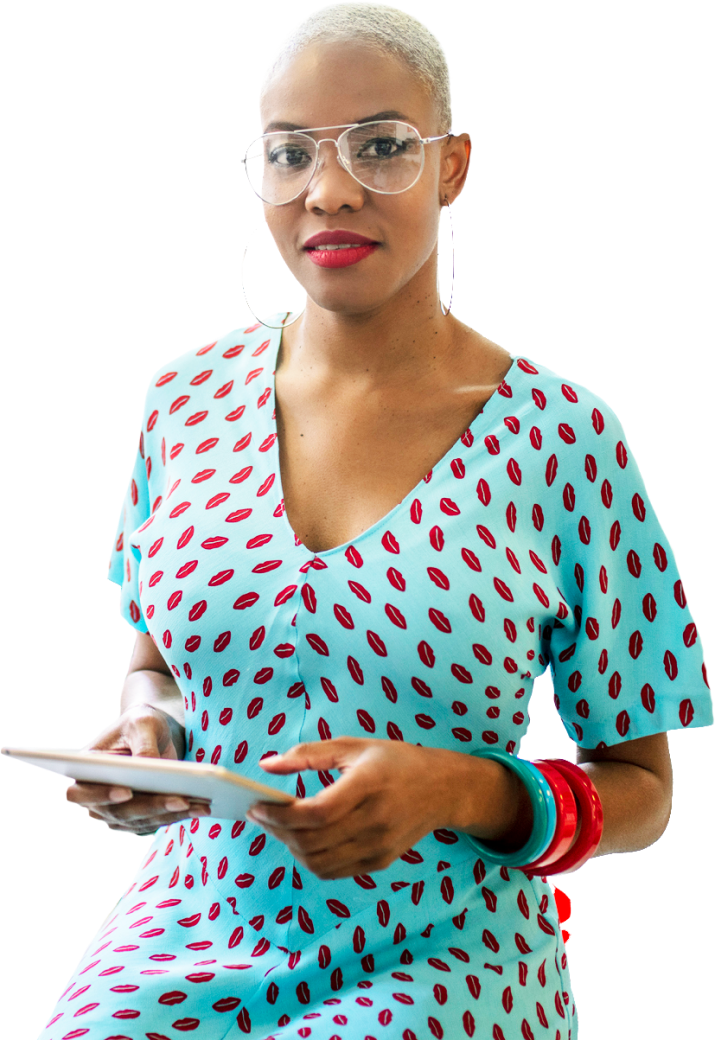
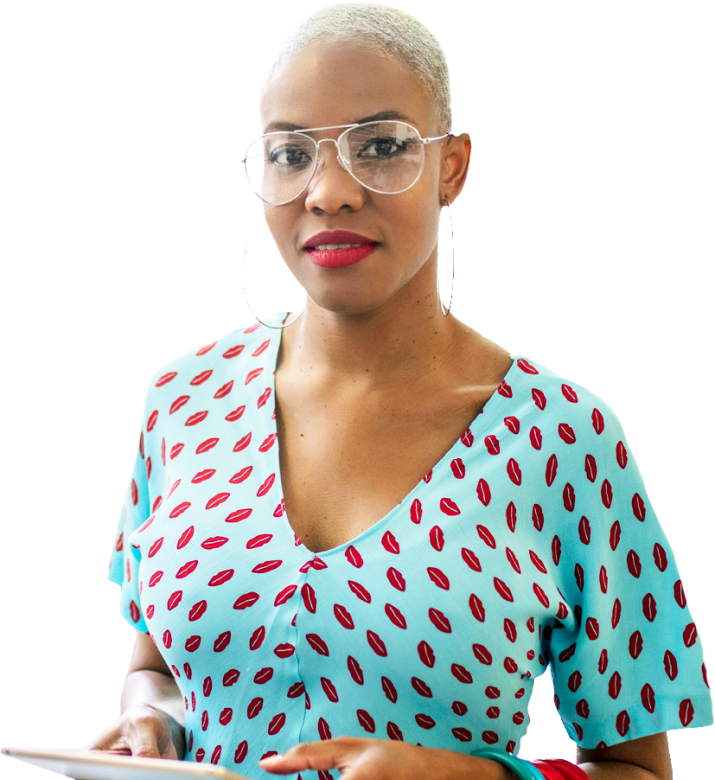
.

diff --git a/pages/index.tsx b/pages/index.tsx
@@ -20,9 +20,9 @@ export default function Home() {
       </header>
       <main>
         {/* hero */}
-        <section className="h-full bg-gradient-to-r from-[#5A4797] to-[#2364A4]">
-          <div className="flex items-stretch max-w-screen-xl mx-auto pt-12 sm:pt-20 px-3 sm:px-0">
-            <div className="flex-1 pb-56">
+        <section className="bg-gradient-to-r from-[#5A4797] to-[#2364A4]">
+          <div className="grid grid-cols-3 sm:grid-cols-2 max-w-screen-xl mx-auto pt-10 sm:pt-20">
+            <div className="col-span-3 sm:col-start-1 sm:col-span-1 px-3">
               <h1 className="text-7xl sm:text-9xl leading-none text-white font-strawberry capitalize">
                 Build your team.
               </h1>
@@ -35,36 +35,36 @@ export default function Home() {
                 you find exceptional talent to augment your team. We love this
                 work and we’re ready to help.
               </p>
-              <div>
-                <div className="text-lg sm:text-2xl max-w-[70%] sm:max-w-[80%] mt-4 sm:mt-12 font-bold italic text-[#3CBFAE]">
-                  “I have worked with SweetRush and Rodrigo for many years, and
-                  I trust them and count on them, and they never let me down.”
-                </div>
-                <div className="flex flex-col sm:flex-row sm:items-end max-w-[75%] sm:max-w-full space-y-2 sm:space-y-0 sm:space-x-4 mt-6 text-white">
-                  <p>
-                    <b>—Douglas E. Miller, </b>
-                    Director, Learning and Awareness
-                  </p>
-                  <div>
-                    <Image
-                      src="/kaiser-logo.png"
-                      width={125}
-                      height={15}
-                      objectFit="contain"
-                      objectPosition="bottom"
-                      alt="Kaiser Permanente logo"
-                    />
-                  </div>
+            </div>
+            <div className="col-start-1 row-start-2 row-end-2 z-10 col-span-2 sm:col-span-1 pb-28 sm:pb-56 pl-3">
+              <div className="text-lg sm:text-2xl mt-4 sm:mt-12 font-bold italic text-[#3CBFAE]">
+                “I have worked with SweetRush and Rodrigo for many years, and I
+                trust them and count on them, and they never let me down.”
+              </div>
+              <div className="max-w-[200px] sm:max-w-full flex flex-col sm:flex-row sm:items-end space-y-2 sm:space-y-0 sm:space-x-4 mt-6 text-white">
+                <p>
+                  <b>—Douglas E. Miller, </b>
+                  Director, Learning and Awareness
+                </p>
+                <div>
+                  <Image
+                    src="/kaiser-logo.png"
+                    width={125}
+                    height={15}
+                    objectFit="contain"
+                    objectPosition="bottom"
+                    alt="Kaiser Permanente logo"
+                  />
                 </div>
               </div>
             </div>
-            <div className="flex-1 relative hidden sm:block">
+            <div className="col-start-2 col-span-2 row-start-2 row-end-2 sm:row-start-1 sm:row-span-2 relative">
               <Image
                 src="/hero.png"
                 layout="fill"
                 objectFit="cover"
                 alt="woman"
-                objectPosition="top"
+                className="object-left sm:object-top"
               />
             </div>
           </div>
